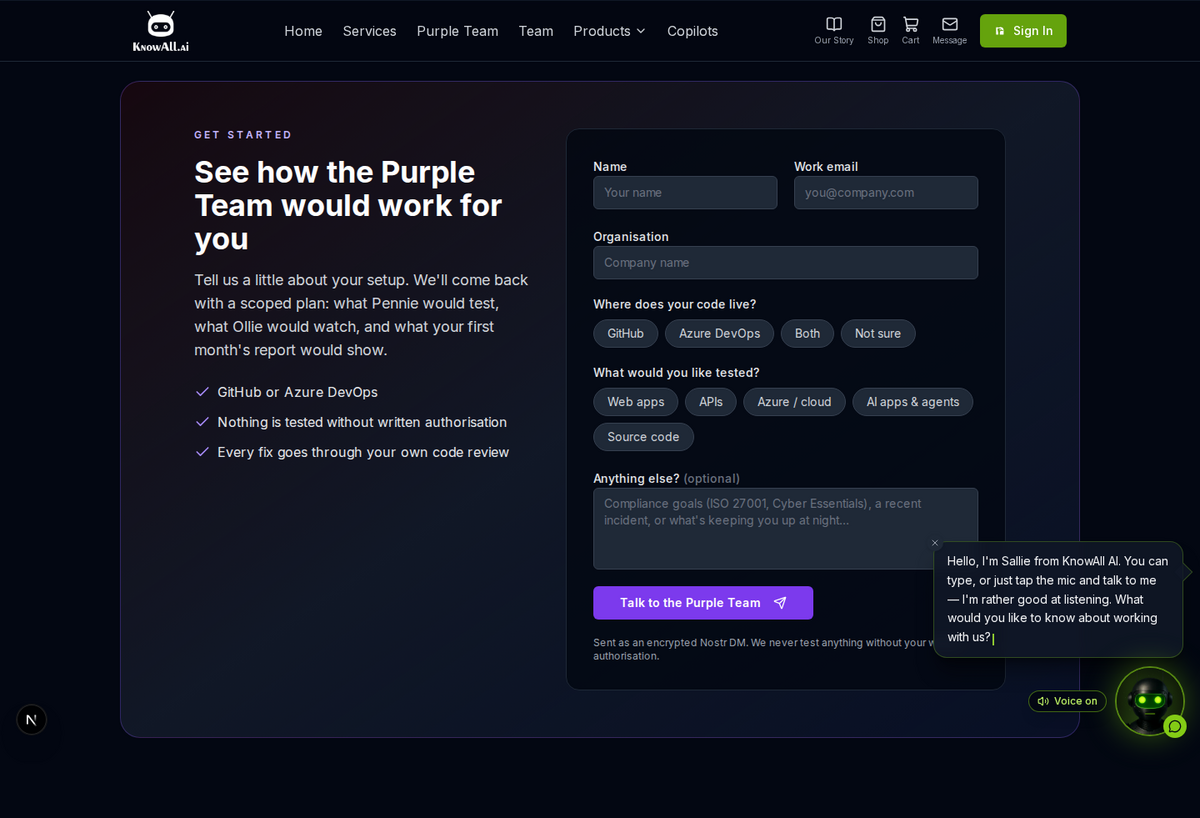
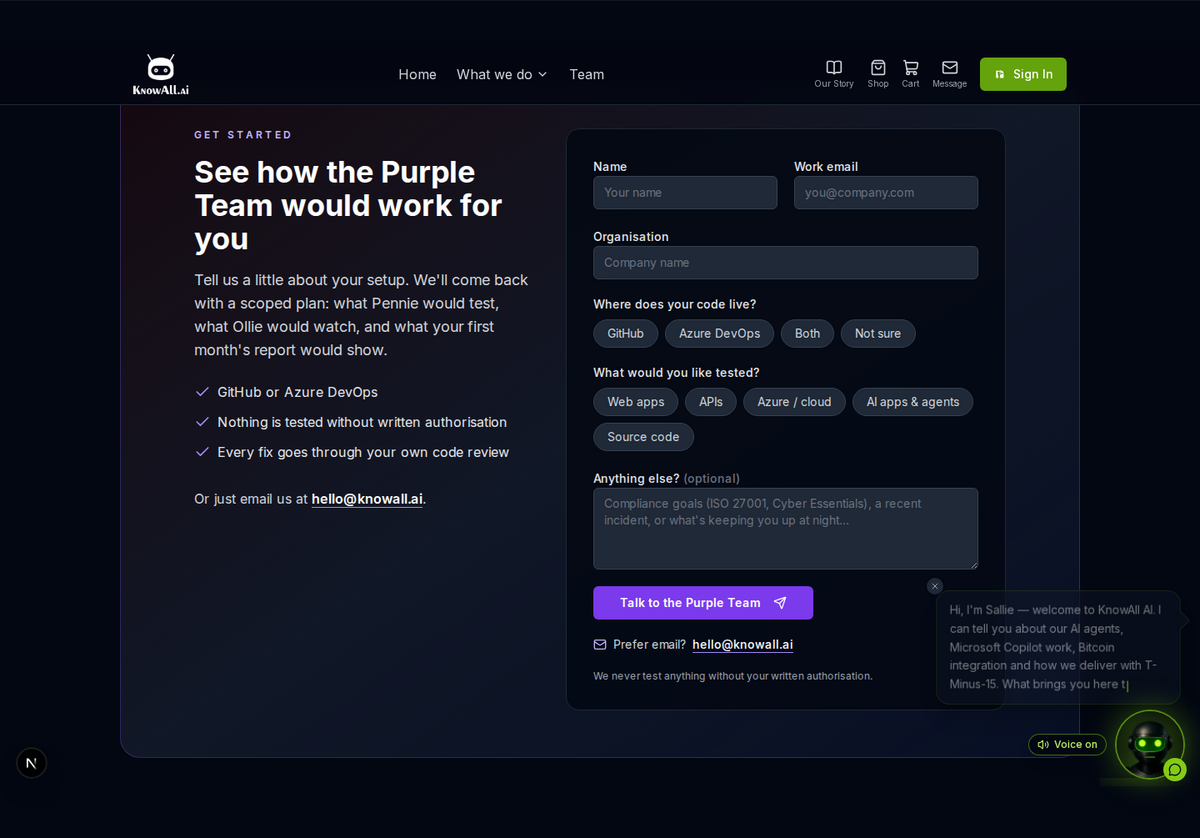
feat(purple-team): make the hello@ email address easy to read
The address sat in grey small print under the form. It now has its own
line with a mail icon under the button, and an 'Or just email us' line
beside the checklist, both in white.

Refs #189

diff --git a/components/purple-team/enquiry-form.tsx b/components/purple-team/enquiry-form.tsx
@@ -4,7 +4,7 @@ import { useState } from 'react';
 import { useForm } from 'react-hook-form';
 import { zodResolver } from '@hookform/resolvers/zod';
 import { z } from 'zod';
-import { CheckCircle, Send } from 'lucide-react';
+import { CheckCircle, Mail, Send } from 'lucide-react';
 import { Button } from '@/components/ui/button';
 import { Input } from '@/components/ui/input';
 import { Label } from '@/components/ui/label';
@@ -217,15 +217,18 @@ export default function EnquiryForm() {
         {sending ? 'Sending…' : 'Talk to the Purple Team'}
         <Send className="ml-2 h-4 w-4" aria-hidden="true" />
       </Button>
-      <p className="text-xs text-gray-400">
-        Prefer email? Write to{' '}
+      <p className="flex items-center gap-2 text-sm text-gray-300">
+        <Mail className="h-4 w-4 shrink-0 text-violet-300" aria-hidden="true" />
+        Prefer email?{' '}
         <a
           href="mailto:hello@knowall.ai?subject=Purple%20Team%20enquiry"
-          className="text-violet-300 underline-offset-4 hover:underline"
+          className="font-medium text-white underline decoration-violet-400 underline-offset-4 hover:text-violet-200"
         >
           hello@knowall.ai
         </a>
-        . We never test anything without your written authorisation.
+      </p>
+      <p className="text-xs text-gray-400">
+        We never test anything without your written authorisation.
       </p>
     </form>
   );

diff --git a/app/purple-team/page.tsx b/app/purple-team/page.tsx
@@ -480,6 +480,16 @@ export default function PurpleTeamPage() {
                   </li>
                 ))}
               </ul>
+              <p className="mt-8 text-gray-300">
+                Or just email us at{' '}
+                <a
+                  href="mailto:hello@knowall.ai?subject=Purple%20Team%20enquiry"
+                  className="font-semibold text-white underline decoration-violet-400 underline-offset-4 hover:text-violet-200"
+                >
+                  hello@knowall.ai
+                </a>
+                .
+              </p>
             </div>
             <div className="rounded-2xl border border-gray-800 bg-gray-950/80 p-6 sm:p-8">
               <EnquiryForm />
